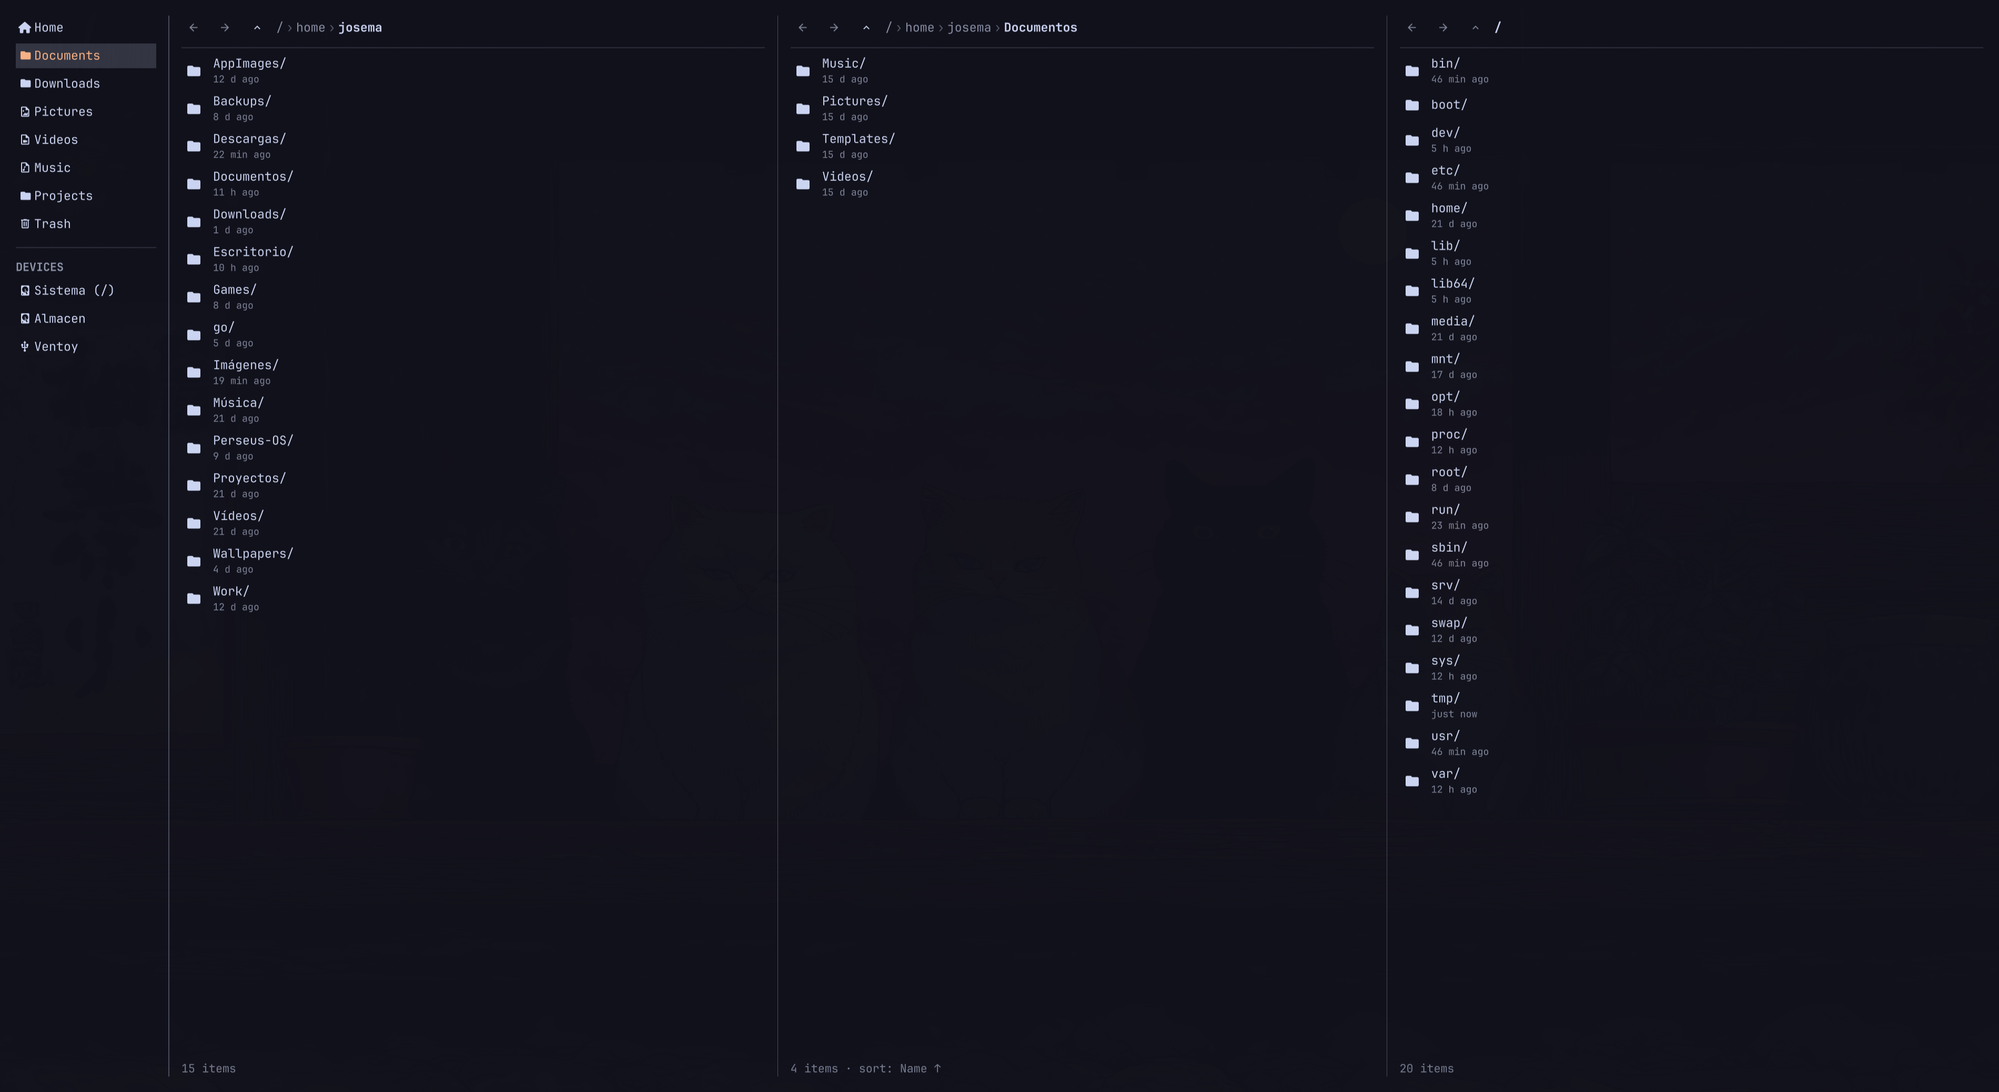
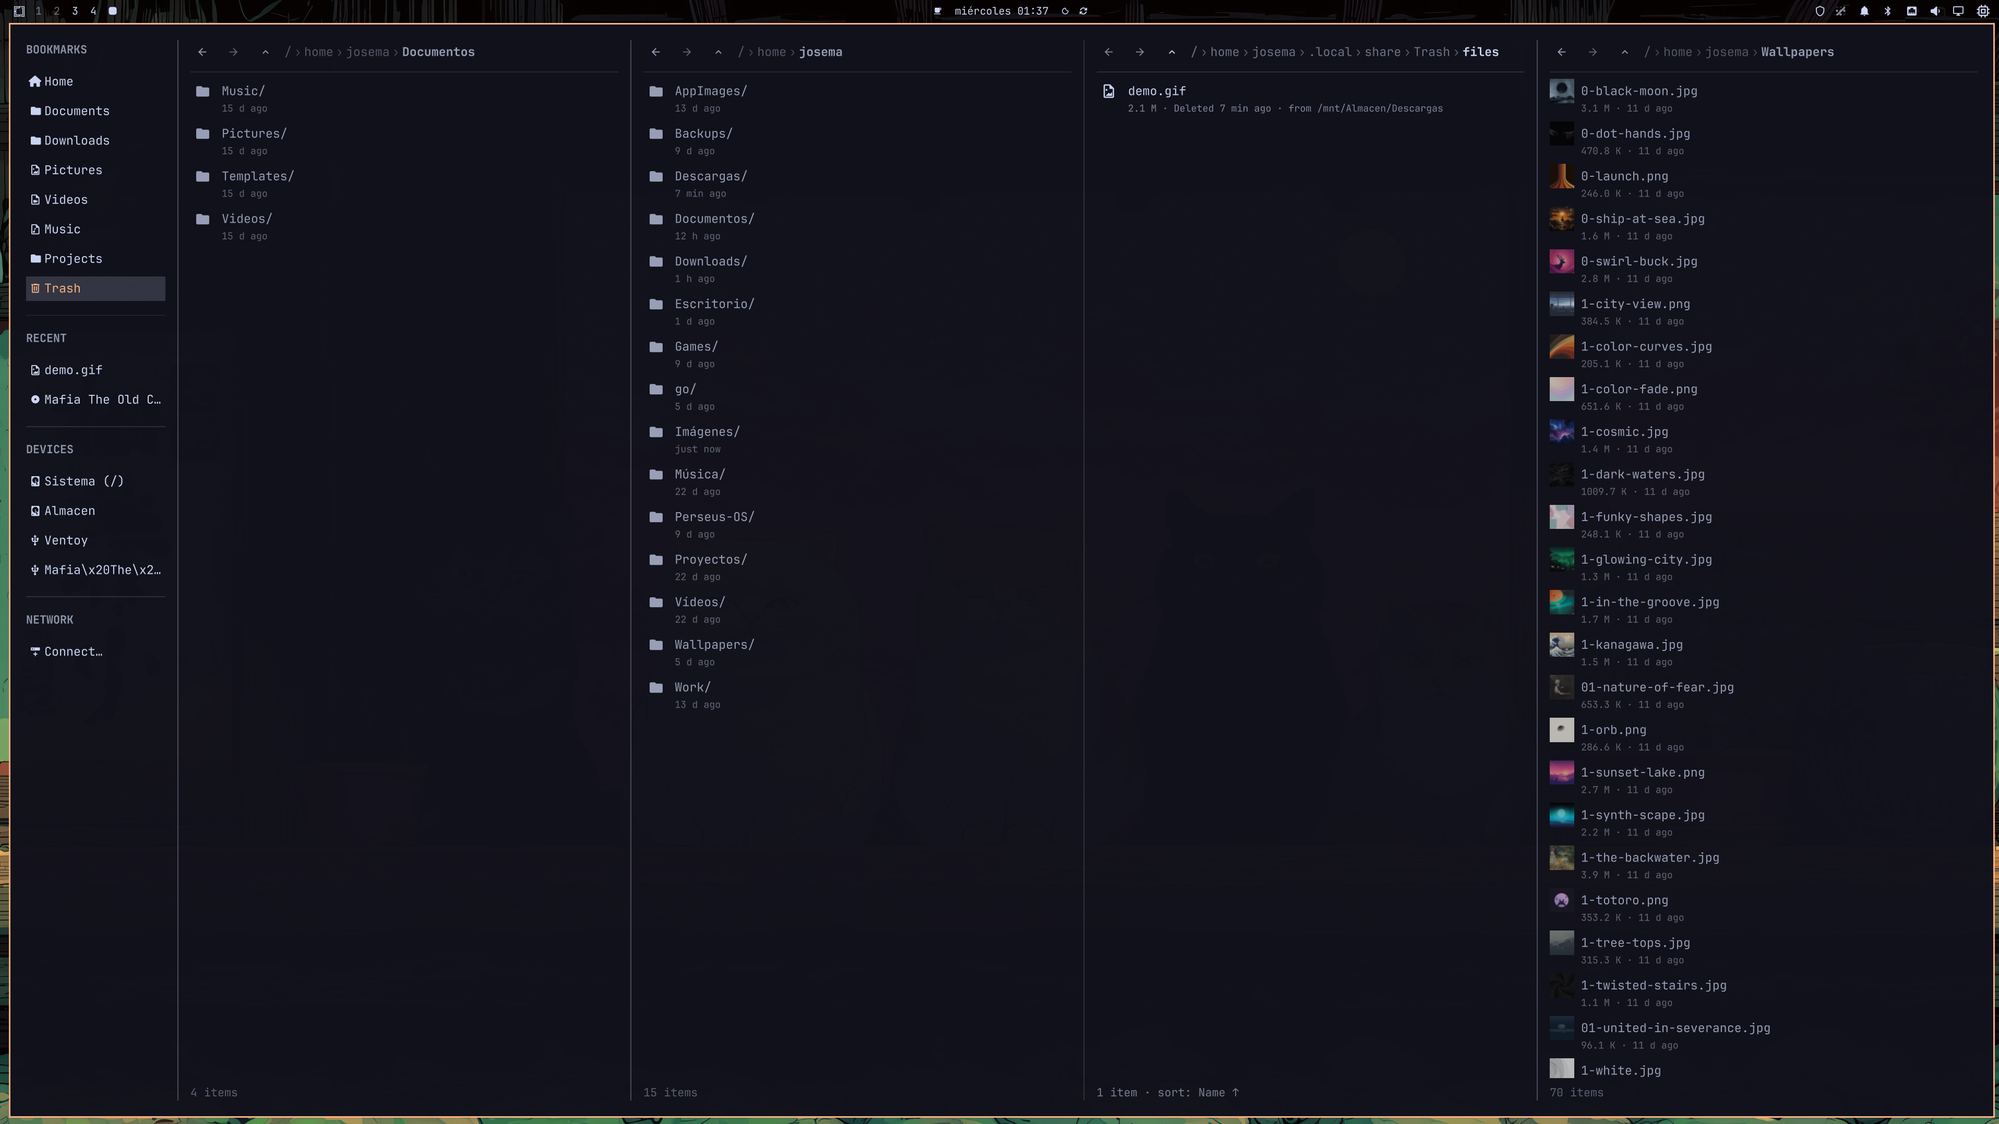
Fix three background-panel bugs, update README preview
- "Open in new tab" could open the wrong path if the active tab
  changed (via hover) between opening the context menu and clicking
  the entry, because the action read root.currentPath live at click
  time instead of at menu-build time. Fixed by capturing the path
  up front, and by blocking hover-triggered tab switches while the
  context menu is open (same root cause could have hit other menu
  actions too).
- Trash showed as empty in a background panel until it became active:
  background panels always listed with plain list-dir.sh, which only
  sees the home trash. Now they use list-trash.sh for the trash path,
  same as the active panel.
- Switching tabs always reset scroll position to the top. Now saved
  and restored per tab alongside history/preview.
- Updated preview.png to the current 4-panel layout with thumbnails.

diff --git a/Omafiles.qml b/Omafiles.qml
@@ -1090,7 +1090,7 @@ Item {
     var next = root.tabs.slice()
     next[root.activeTabIndex] = {
       path: root.currentPath, history: root.navHistory, historyIndex: root.navHistoryIndex,
-      previewOpen: root.previewOpen, previewEntry: root.previewEntry
+      previewOpen: root.previewOpen, previewEntry: root.previewEntry, scrollY: list.contentY
     }
     root.tabs = next
   }
@@ -1117,6 +1117,17 @@ Item {
     }
   }
 
+  // _goToPath() siempre deja list.contentY = list.originY (arriba del
+  // todo) al navegar -- sin esto, volver a una pestaña en la que se había
+  // bajado en la lista aterrizaba siempre en la fila 0, perdiendo la
+  // posición aunque la carpeta en sí no hubiera cambiado. Se llama
+  // DESPUÉS de _goToPath, mismo motivo que _restoreTabPreview: para
+  // entonces el modelo (root.visibleEntries) ya está actualizado y
+  // contentHeight ya refleja el listado correcto.
+  function _restoreTabScroll(tab) {
+    list.contentY = tab.scrollY || list.originY
+  }
+
   function switchToTab(index) {
     if (index < 0 || index >= root.tabs.length || index === root.activeTabIndex) return
     root.saveActiveTab()
@@ -1124,6 +1135,7 @@ Item {
     root._restoreTabHistory(root.tabs[index])
     root._goToPath(root.tabs[index].path)
     root._restoreTabPreview(root.tabs[index])
+    root._restoreTabScroll(root.tabs[index])
   }
 
   function newTab() {
@@ -1156,6 +1168,7 @@ Item {
     root._restoreTabHistory(root.tabs[newIndex])
     root._goToPath(root.tabs[newIndex].path)
     root._restoreTabPreview(root.tabs[newIndex])
+    root._restoreTabScroll(root.tabs[newIndex])
   }
 
   function nextTab() {
@@ -2556,8 +2569,18 @@ Item {
     if (!multi) {
       actions.push({ label: "Open", action: function () { root.enter(entries[0]) } })
       if (entries[0].type === "dir") {
+        // Bug real: usar root.currentPath dentro del closure (en vez de
+        // capturarlo aquí) leía la ruta en el momento del CLIC del menú,
+        // no en el momento de abrirlo -- si el ratón pasaba por otro
+        // panel de fondo mientras el menú seguía abierto (el
+        // HoverHandler de cambio de pestaña no se desactiva solo por
+        // haber un menú encima), la pestaña activa ya había cambiado y
+        // "Open in new tab" abría la carpeta dentro de la carpeta
+        // EQUIVOCADA. Capturado como variable local, coherente con como
+        // ya lo hace paletteCommands() para el mismo caso.
+        var dirFullPath = root.joinPath(root.currentPath, entries[0].name)
         actions.push({ label: "Open in new tab", action: function () {
-          root.openInNewTab(root.joinPath(root.currentPath, entries[0].name))
+          root.openInNewTab(dirFullPath)
         } })
       } else {
         actions.push({ label: "Open with...", action: function () { root.showOpenWith(entries[0]) } })
@@ -4039,14 +4062,31 @@ Item {
                   // fichero/ruta editable) -- switchToTab -> _goToPath
                   // resetea esos campos, y con hover-to-activate bastaba con
                   // cruzar el ratón por el divisor para perder el texto sin
-                  // ningún clic de por medio.
-                  onHoveredChanged: if (hovered && !root.hasPendingEdit) root.switchToTab(bgPanel.index)
+                  // ningún clic de por medio. Tampoco con el menú
+                  // contextual abierto -- bug real: el menú se abre sobre
+                  // el panel activo de ESE momento, pero si el cursor
+                  // pasaba por otro panel de fondo de camino a una entrada
+                  // del menú (nada bloqueaba el hover solo por haber un
+                  // menú encima), la pestaña activa cambiaba a mitad de
+                  // acción y "Open in new tab"/Copy/etc. acababan actuando
+                  // sobre la carpeta equivocada.
+                  onHoveredChanged: if (hovered && !root.hasPendingEdit && !root.contextMenuOpen) root.switchToTab(bgPanel.index)
                 }
 
                 function refreshMe() {
                   if (!bgPanel.visible) return
                   bgPanel.pathError = ""
-                  bgListProc.command = [root.pluginDir + "/list-dir.sh", bgPanel.modelData.path, root.showHidden ? "1" : "0"]
+                  // Papelera: igual que root.refresh() con el panel activo
+                  // -- no es una carpeta real, agrega la de casa más la de
+                  // cualquier otro disco montado (list-trash.sh), así que
+                  // list-dir.sh a secas contra trashDir solo ve la de casa
+                  // y con eso vacía se veía como "papelera vacía" hasta
+                  // que este panel pasaba a ser el activo.
+                  if (bgPanel.modelData.path === root.trashDir) {
+                    bgListProc.command = [root.pluginDir + "/list-trash.sh", root.showHidden ? "1" : "0"]
+                  } else {
+                    bgListProc.command = [root.pluginDir + "/list-dir.sh", bgPanel.modelData.path, root.showHidden ? "1" : "0"]
+                  }
                   bgListProc.running = true
                 }
 
